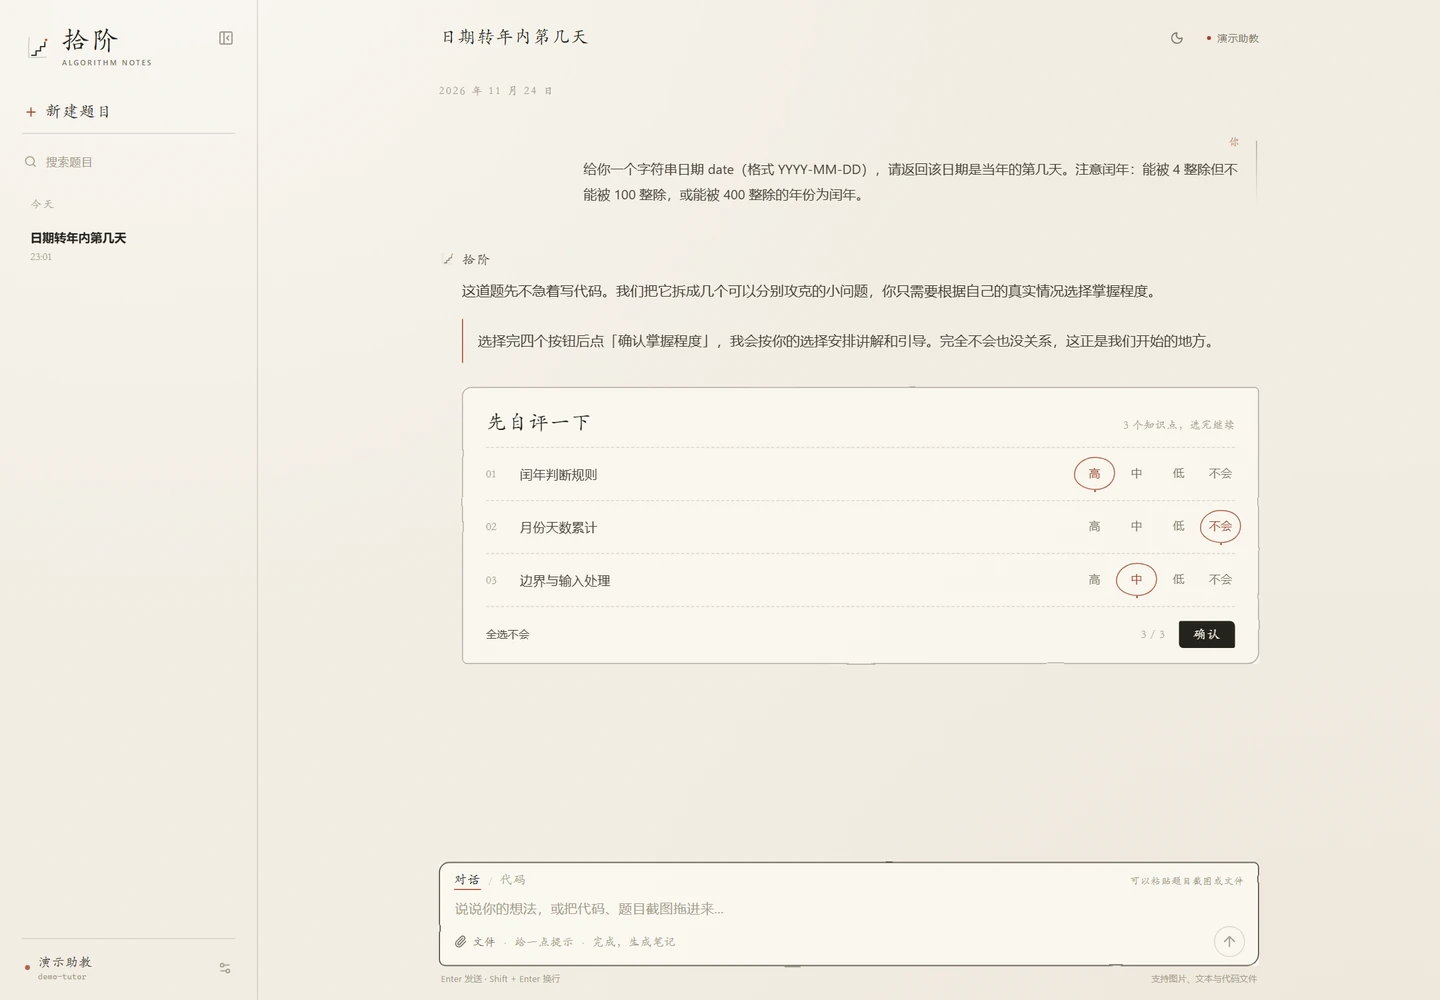
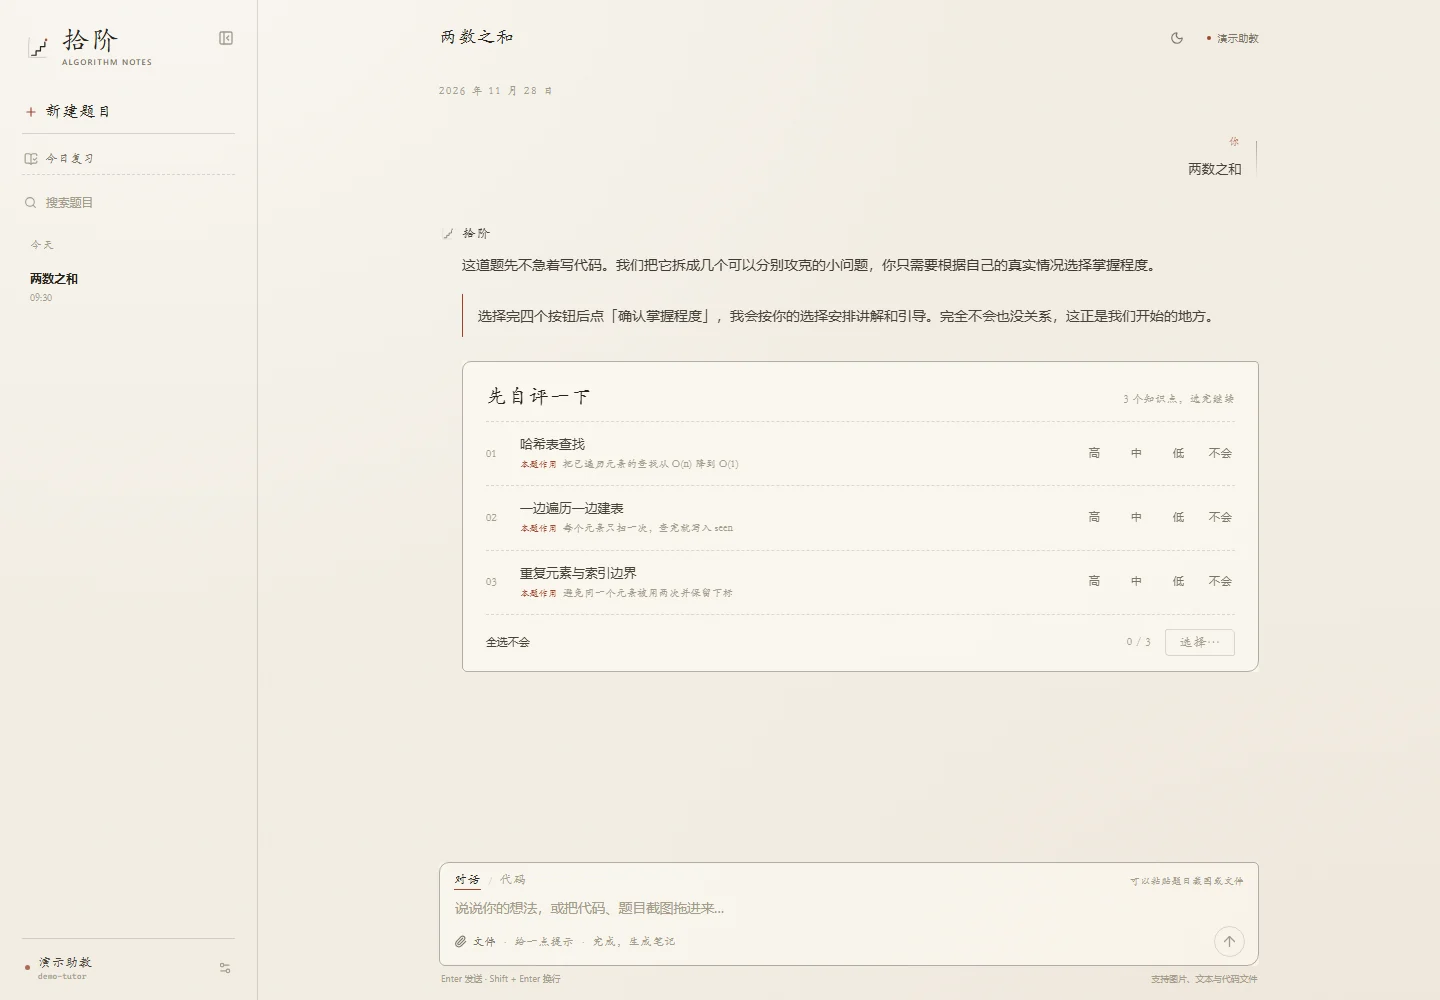
Show each knowledge point's role in the current problem
- Add an optional short role to the knowledge protocol and parser
- Render it under each knowledge point without expanding the self-assessment flow
- Include roles in review-card context and search
- Update prompt, demo mock data, docs, and knowledge screenshot

diff --git a/algo-tutor/src/lib/storage.ts b/algo-tutor/src/lib/storage.ts
@@ -1,5 +1,7 @@
 import type {
   ChatMessage,
+  KnowledgePoint,
+  Mastery,
   MessageAttachment,
   ModelConfig,
   PersistedData,
@@ -64,6 +66,30 @@ function normalizeMessage(raw: unknown): ChatMessage | null {
   };
 }
 
+function normalizeKnowledgePoint(raw: unknown): KnowledgePoint | null {
+  if (!raw || typeof raw !== 'object') return null;
+  const item = raw as Partial<KnowledgePoint>;
+  const name = String(item.name || '').trim();
+  if (!name) return null;
+  const role = String(item.role || '')
+    .replace(/\s+/g, ' ')
+    .trim()
+    .slice(0, 60);
+  const mastery: Mastery | undefined =
+    item.mastery === 'high' ||
+    item.mastery === 'medium' ||
+    item.mastery === 'low' ||
+    item.mastery === 'none'
+      ? item.mastery
+      : undefined;
+  return {
+    id: Number(item.id) || 0,
+    name: name.slice(0, 40),
+    ...(role ? { role } : {}),
+    ...(mastery ? { mastery } : {}),
+  };
+}
+
 function normalizeSession(raw: unknown): Session | null {
   if (!raw || typeof raw !== 'object') return null;
   const item = raw as Partial<Session>;
@@ -71,13 +97,21 @@ function normalizeSession(raw: unknown): Session | null {
   const messages = item.messages
     .map(normalizeMessage)
     .filter((message): message is ChatMessage => Boolean(message));
+  const knowledgePoints = Array.isArray(item.knowledgePoints)
+    ? item.knowledgePoints
+        .map(normalizeKnowledgePoint)
+        .filter((point): point is KnowledgePoint => Boolean(point))
+    : [];
   return {
     id: String(item.id),
     title: String(item.title || '未命名题目').slice(0, 40),
     createdAt: Number(item.createdAt) || Date.now(),
     updatedAt: Number(item.updatedAt) || Date.now(),
     messages,
-    knowledgePoints: Array.isArray(item.knowledgePoints) ? item.knowledgePoints : [],
+    knowledgePoints: knowledgePoints.map((point, index) => ({
+      ...point,
+      id: point.id > 0 ? point.id : index + 1,
+    })),
     knowledgeSubmitted: Boolean(item.knowledgeSubmitted),
     note: item.note,
     pinned: Boolean(item.pinned),

diff --git a/algo-tutor/src/lib/protocol.ts b/algo-tutor/src/lib/protocol.ts
@@ -45,6 +45,14 @@ export function makeFallbackTitle(problem: string): string {
   return clipped || '新的算法题';
 }
 
+function cleanKnowledgeRole(raw: unknown): string {
+  return String(raw ?? '')
+    .replace(/^\s*(?:在本题中|本题作用|作用|role)\s*[:：]\s*/i, '')
+    .replace(/\s+/g, ' ')
+    .trim()
+    .slice(0, 60);
+}
+
 function parseKnowledgeJson(raw: string): KnowledgePoint[] {
   const text = String(raw || '')
     .trim()
@@ -68,15 +76,17 @@ function parseKnowledgeJson(raw: string): KnowledgePoint[] {
   for (let index = 0; index < candidate.length; index += 1) {
     const item = candidate[index];
     if (!item || typeof item !== 'object') continue;
-    const name = String((item as { name?: unknown }).name ?? '').trim();
+    const record = item as { name?: unknown; id?: unknown; role?: unknown; usage?: unknown; purpose?: unknown };
+    const name = String(record.name ?? '').trim();
     if (!name) continue;
-    let id = Number((item as { id?: unknown }).id);
+    let id = Number(record.id);
     if (!Number.isFinite(id) || id <= 0 || usedIds.has(id)) {
       id = 1;
       while (usedIds.has(id)) id += 1;
     }
     usedIds.add(id);
-    points.push({ id, name: name.slice(0, 40) });
+    const role = cleanKnowledgeRole(record.role ?? record.usage ?? record.purpose);
+    points.push({ id, name: name.slice(0, 40), ...(role ? { role } : {}) });
     if (points.length >= 10) break;
   }
   return points;

diff --git a/algo-tutor/src/styles.css b/algo-tutor/src/styles.css
@@ -1747,11 +1747,37 @@ button:focus:not(:focus-visible) {
 }
 
 .knowledge-name {
-  flex: 1;
   min-width: 0;
   color: var(--ink-soft);
   font-size: 12.8px;
   letter-spacing: 0.01em;
+}
+
+.knowledge-copy {
+  display: flex;
+  flex: 1;
+  flex-direction: column;
+  gap: 4px;
+  min-width: 0;
+}
+
+.knowledge-role {
+  display: -webkit-box;
+  overflow: hidden;
+  color: var(--faint);
+  font-family: var(--font-hand);
+  font-size: 10.5px;
+  line-height: 1.55;
+  letter-spacing: 0.015em;
+  -webkit-box-orient: vertical;
+  -webkit-line-clamp: 2;
+}
+
+.knowledge-role-mark {
+  margin-right: 5px;
+  color: var(--accent);
+  font-size: 9px;
+  letter-spacing: 0.04em;
 }
 
 .mastery-switch {
@@ -3826,6 +3852,11 @@ button:focus:not(:focus-visible) {
 
   .knowledge-name {
     font-size: 12.4px;
+  }
+
+  .knowledge-role {
+    font-size: 10px;
+    -webkit-line-clamp: 3;
   }
 
   .mastery-switch {

diff --git a/algo-tutor/src/components/KnowledgePanel.tsx b/algo-tutor/src/components/KnowledgePanel.tsx
@@ -33,7 +33,15 @@ export function KnowledgePanel({
         {points.map((point, index) => (
           <div className="knowledge-row" key={point.id}>
             <span className="knowledge-index">{String(index + 1).padStart(2, '0')}</span>
-            <span className="knowledge-name">{point.name}</span>
+            <div className="knowledge-copy">
+              <span className="knowledge-name">{point.name}</span>
+              {point.role && (
+                <span className="knowledge-role" title={point.role}>
+                  <span className="knowledge-role-mark">本题作用</span>
+                  {point.role}
+                </span>
+              )}
+            </div>
             <div
               className="mastery-switch"
               role="radiogroup"

diff --git a/algo-tutor/src/lib/review.ts b/algo-tutor/src/lib/review.ts
@@ -52,7 +52,8 @@ export function buildReviewContext(session: Session): string {
   const knowledge = session.knowledgePoints
     .map((point) => {
       const mastery = point.mastery ? `（自评：${point.mastery}）` : '';
-      return `${point.name}${mastery}`;
+      const role = point.role ? `（本题作用：${point.role}）` : '';
+      return `${point.name}${role}${mastery}`;
     })
     .join('、');
   const assistantTexts = session.messages

diff --git a/algo-tutor/src/components/Sidebar.tsx b/algo-tutor/src/components/Sidebar.tsx
@@ -52,7 +52,7 @@ function matchesQuery(session: Session, query: string): boolean {
     session.title,
     session.note?.markdown || '',
     ...session.messages.map((message) => message.content),
-    ...session.knowledgePoints.map((point) => point.name),
+    ...session.knowledgePoints.map((point) => `${point.name} ${point.role || ''}`),
   ]
     .join(' ')
     .toLowerCase();

diff --git a/algo-tutor/src/types.ts b/algo-tutor/src/types.ts
@@ -25,6 +25,8 @@ export interface MessageAttachment {
 export interface KnowledgePoint {
   id: number;
   name: string;
+  /** 这个知识点在本题中承担的具体作用，用于帮助自评和后续复习。 */
+  role?: string;
   mastery?: Mastery;
 }
 
